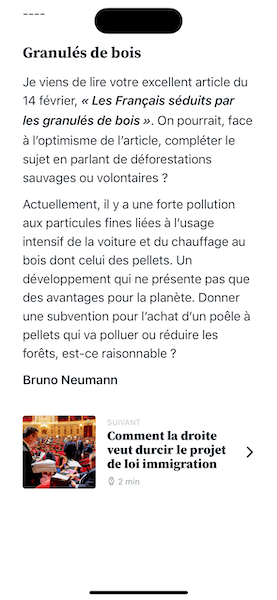
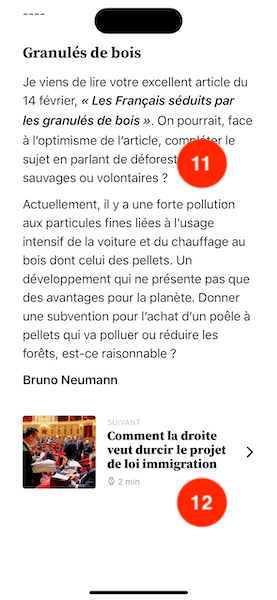
[TC-5940] Annotate images

Changed region(s): [[0.6354, 0.78, 0.8375, 0.9], [0.6354, 0.21, 0.8375, 0.33]]

diff --git a/Docs/config.md b/Docs/config.md
@@ -51,6 +51,11 @@ The config for an instance of the article image viewer.
 The config for an instance of the article reader.
 
 ![articlereader_1.png](./assets/articlereader_1.png)
+![articlereader_2.png](./assets/articlereader_2.png)
+![articlereader_3.png](./assets/articlereader_3.png)
+![articlereader_4.png](./assets/articlereader_4.png)
+![articlereader_5.png](./assets/articlereader_5.png)
+![articlereader_6.png](./assets/articlereader_6.png)
 
 | Badge | Name | Type | Default value | Description |
 | ----- | ---- | ---- | ------------- | ----------- |
